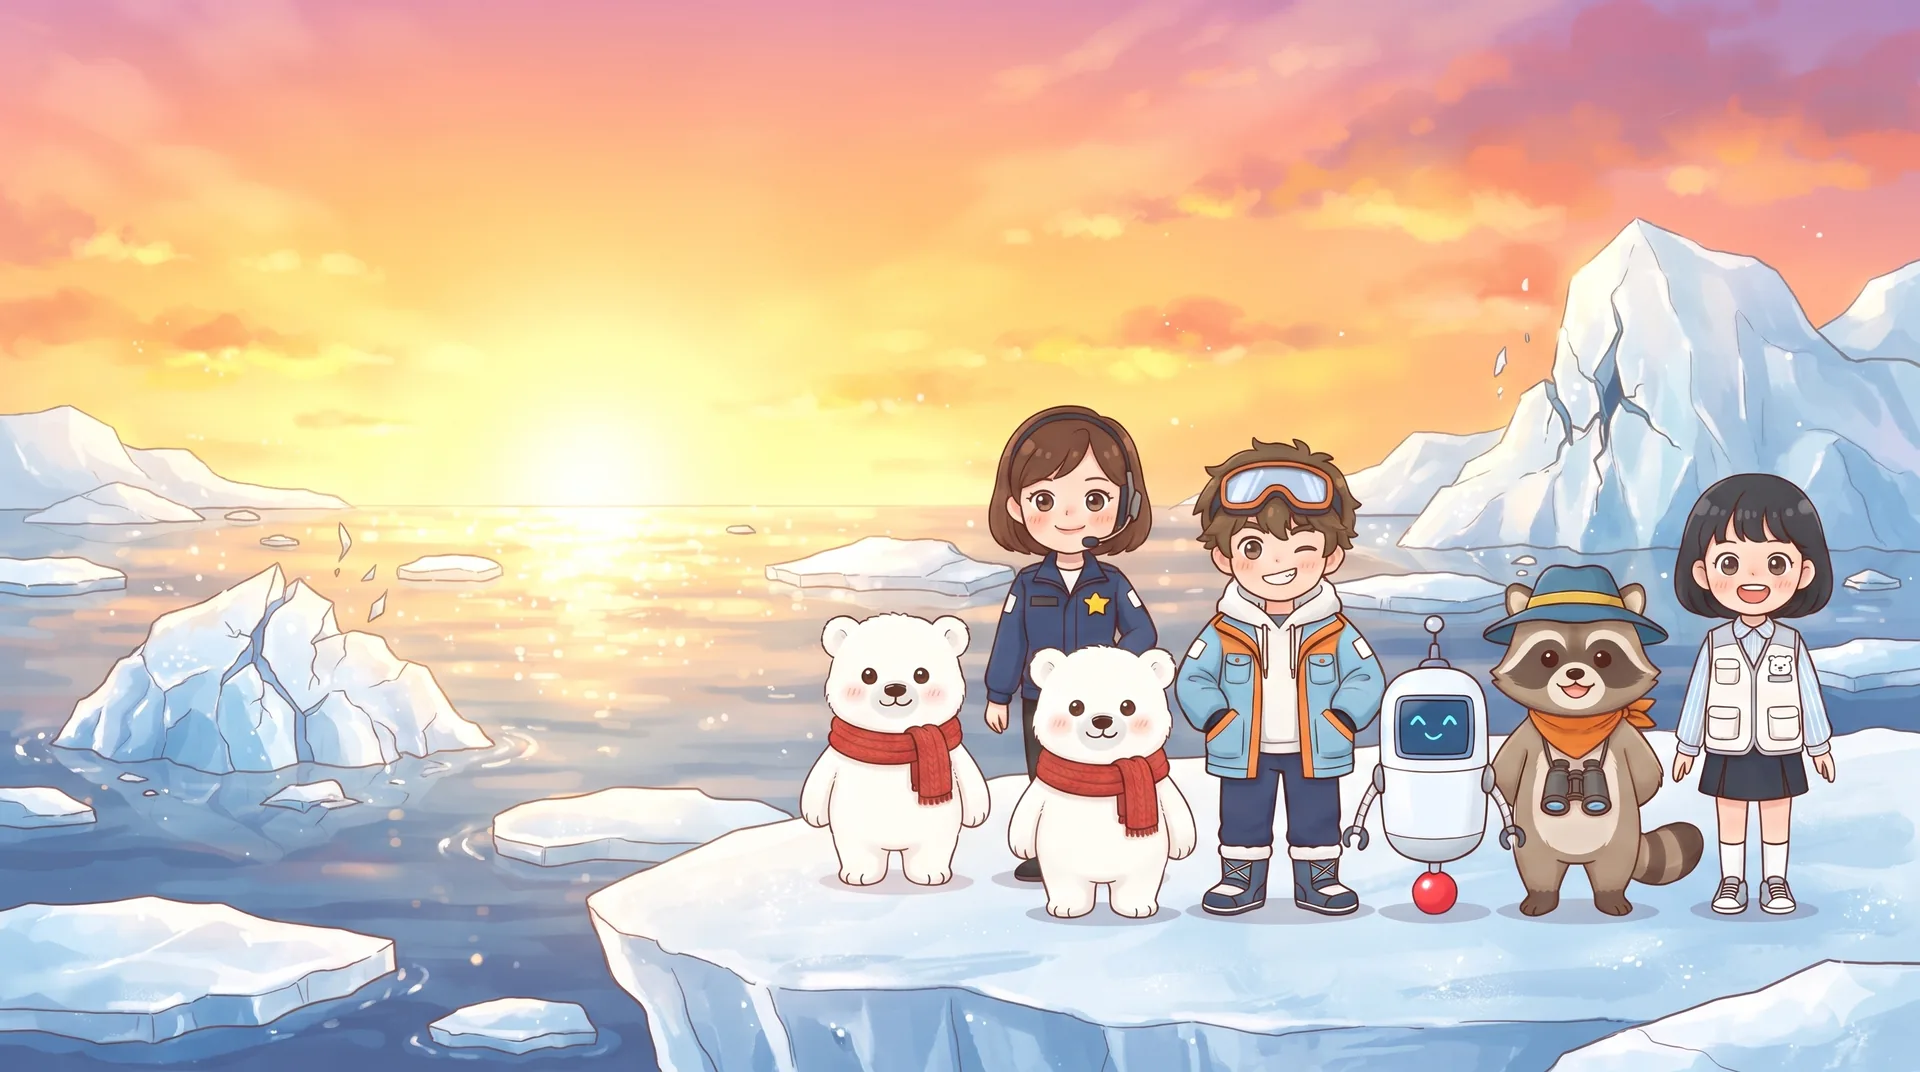
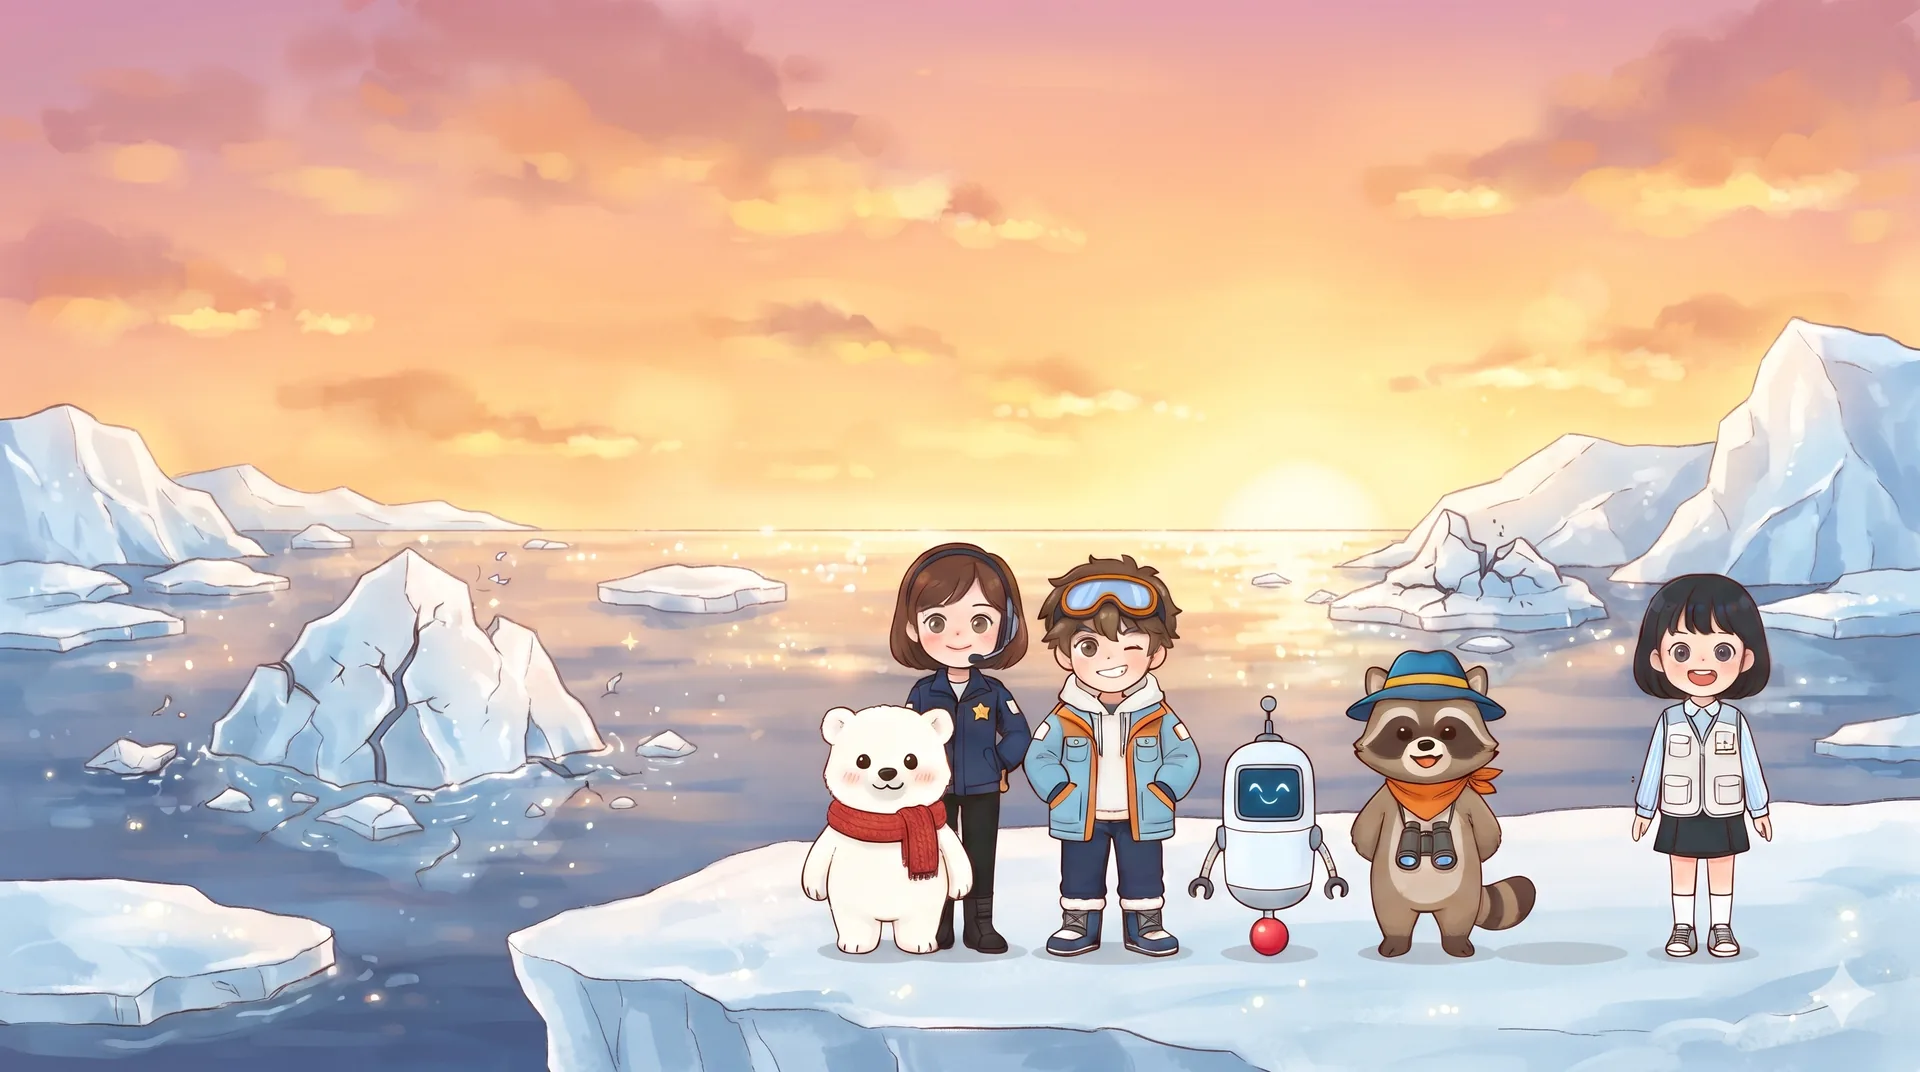
Add files via upload

diff --git a/src/components/RegisterScreen.tsx b/src/components/RegisterScreen.tsx
@@ -1,8 +1,7 @@
 import React, { useState } from 'react';
 import type { AvatarType } from '../types';
-import { heroSVG } from '../svgs';
 import { sfx } from '../audio';
-import { ME_FACE, SCENE_IMAGES } from '../assets';
+import { AVATAR_FACES, SCENE_IMAGES } from '../assets';
 
 interface RegisterScreenProps {
   onRegister: (name: string, code: string, avatar: AvatarType) => void;
@@ -95,7 +94,7 @@ export function RegisterScreen({ onRegister }: RegisterScreenProps) {
                 }}
                 aria-label="단발머리 대원"
               >
-                <img src={ME_FACE} alt="" className="av-img" draggable={false} />
+                <img src={AVATAR_FACES.a} alt="" className="av-img" draggable={false} />
               </button>
               <span className="text-xs font-bold text-amber-950">단발 대원</span>
             </div>
@@ -108,8 +107,9 @@ export function RegisterScreen({ onRegister }: RegisterScreenProps) {
                   sfx.tick();
                 }}
                 aria-label="짧은 머리 대원"
-                dangerouslySetInnerHTML={{ __html: heroSVG('happy', 'b') }}
-              />
+              >
+                <img src={AVATAR_FACES.b} alt="" className="av-img" draggable={false} />
+              </button>
               <span className="text-xs font-bold text-amber-950">소년 대원</span>
             </div>
             <div className="flex flex-col items-center gap-1">
@@ -121,8 +121,9 @@ export function RegisterScreen({ onRegister }: RegisterScreenProps) {
                   sfx.tick();
                 }}
                 aria-label="친구 대원"
-                dangerouslySetInnerHTML={{ __html: heroSVG('happy', 'c') }}
-              />
+              >
+                <img src={AVATAR_FACES.c} alt="" className="av-img" draggable={false} />
+              </button>
               <span className="text-xs font-bold text-amber-950">친구 대원</span>
             </div>
           </div>

diff --git a/src/assets.ts b/src/assets.ts
@@ -22,24 +22,38 @@ const FACE_IMAGES: Partial<Record<SpeakerId, string>> = {
   thermo: img('face-thermo'),
   danbi: img('face-danbi'),
   luka: img('face-luka'),
-  squirrel: img('face-raccoon')
+  squirrel: img('face-raccoon'),
+  friend: img('face-friend'),
+  factory: img('face-factory'),
+  police: img('face-police'),
+  grandma: img('face-grandma'),
+  janitor: img('face-janitor'),
+  villager: img('face-villager'),
+  rep: img('face-rep')
 };
 
 export const PORI_FACE = img('face-pori');
 export const ME_FACE = img('face-me');
 
+/** 등록 화면에서 고르는 신입 대원 얼굴 (a: 단발, b: 소년, c: 친구) */
+export const AVATAR_FACES: Record<AvatarType, string> = {
+  a: ME_FACE,
+  b: img('face-boy'),
+  c: img('face-friend')
+};
+
 /**
- * 말하는 캐릭터의 얼굴 그림 주소. 그림이 없는 인물(공장장, 할머니 등)과
- * 직접 고른 다른 아바타는 null을 돌려주며, 이때는 기존 SVG 얼굴을 쓴다.
+ * 말하는 캐릭터의 얼굴 그림 주소. 그림이 없는 인물(예: 그림자)은 null을
+ * 돌려주며, 이때는 기존 SVG 얼굴을 쓴다.
  */
 export function getFaceImage(who: SpeakerId, avatar: AvatarType): string | null {
-  if (who === 'me') return avatar === 'a' ? ME_FACE : null;
+  if (who === 'me') return AVATAR_FACES[avatar] ?? ME_FACE;
   return FACE_IMAGES[who] ?? null;
 }
 
 /** 장면이 바뀔 때 깜박이지 않도록 배경 그림을 미리 받아 둔다. */
 export function preloadImages() {
-  [TITLE_IMAGE, MAP_IMAGE, ...Object.values(SCENE_IMAGES), ...Object.values(FACE_IMAGES), ME_FACE].forEach(
+  [TITLE_IMAGE, MAP_IMAGE, ...Object.values(SCENE_IMAGES), ...Object.values(FACE_IMAGES), ...Object.values(AVATAR_FACES)].forEach(
     src => {
       const im = new Image();
       im.src = src;

diff --git a/src/index.css b/src/index.css
@@ -1788,7 +1788,7 @@ h1, h2, h3, h4 {
     margin-top: -4px;
   }
   .title-art {
-    object-position: 72% 50%;
+    object-position: 52% 50%;
   }
   .title-scrim {
     background: linear-gradient(180deg, rgba(255, 236, 205, 0.7) 0%, rgba(255, 236, 205, 0) 45%, rgba(40, 40, 80, 0) 70%, rgba(40, 40, 80, 0.45) 100%);
